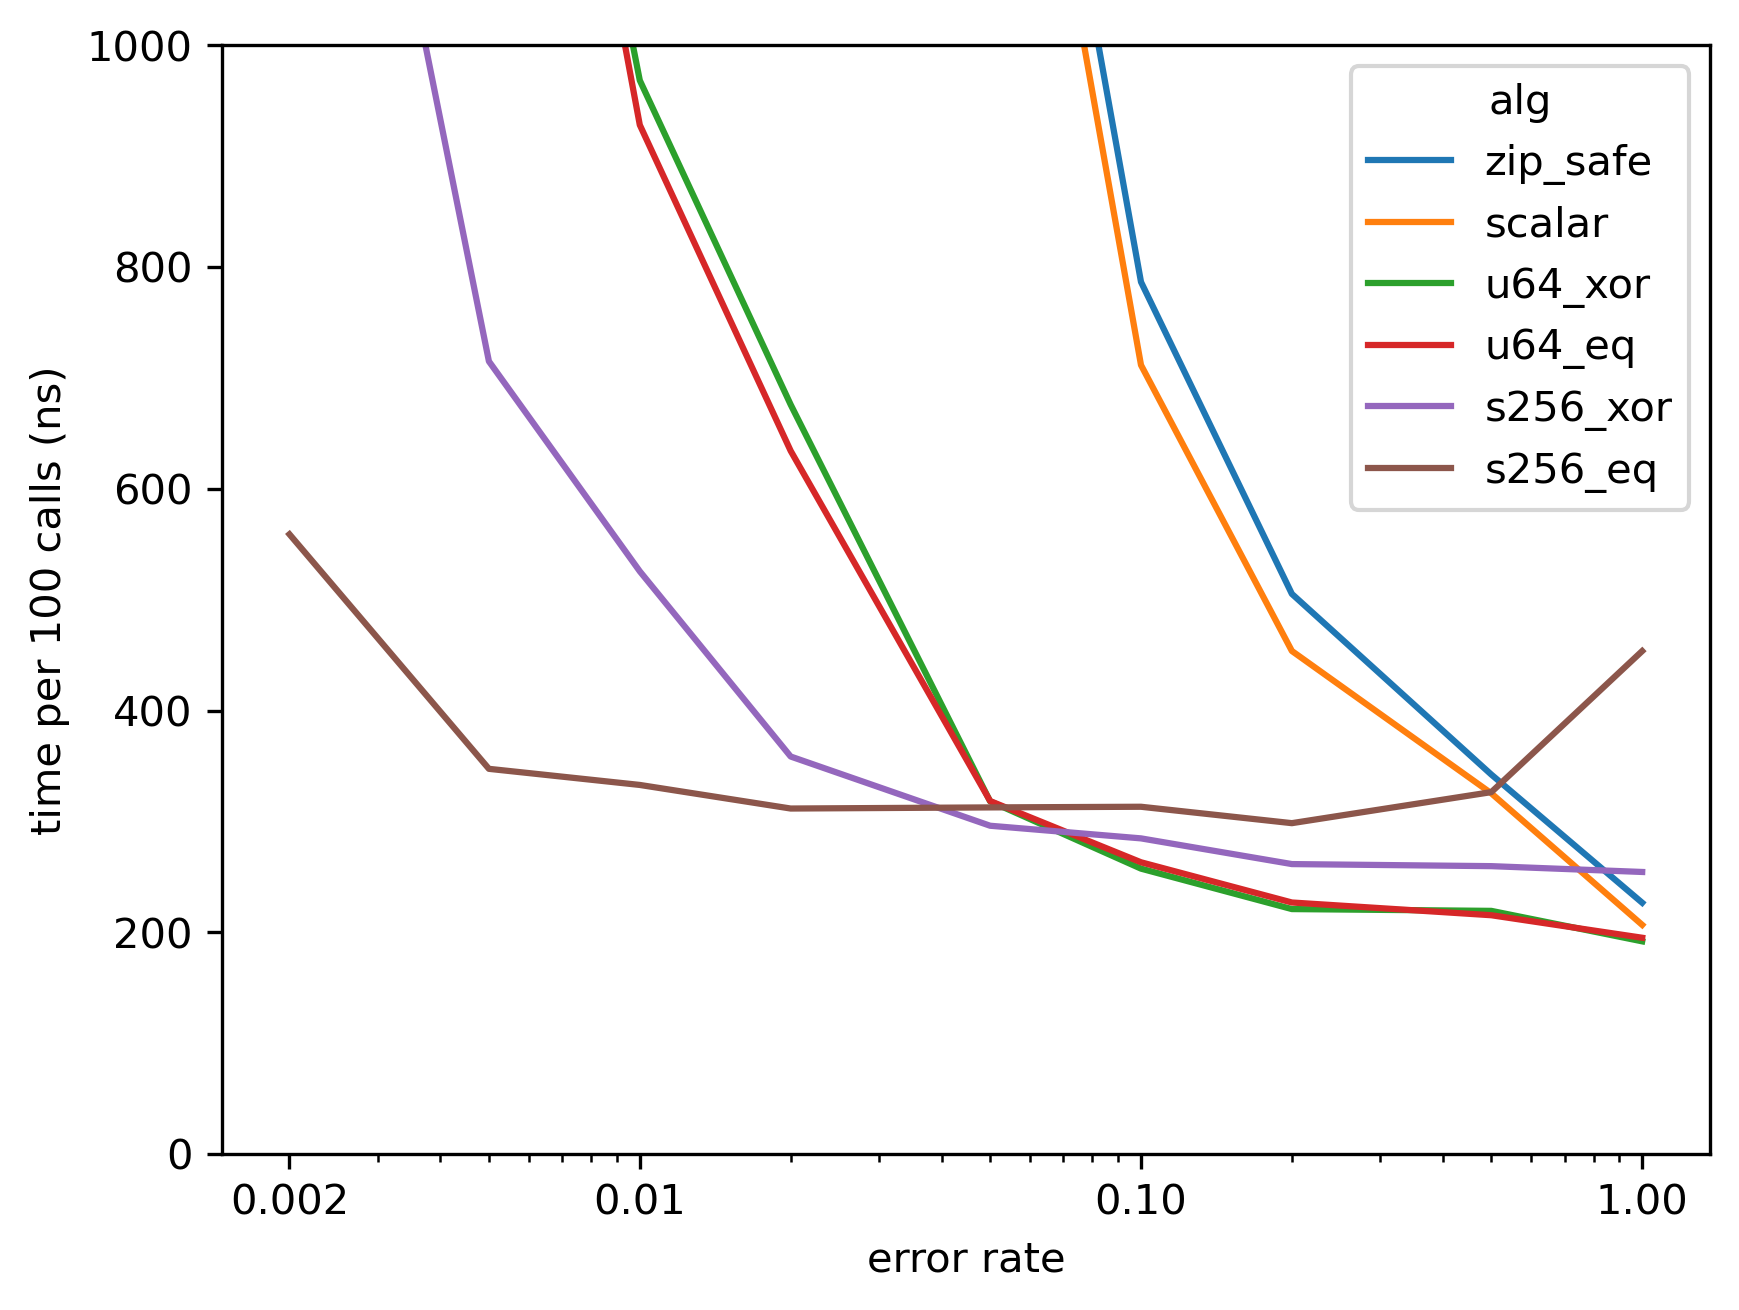
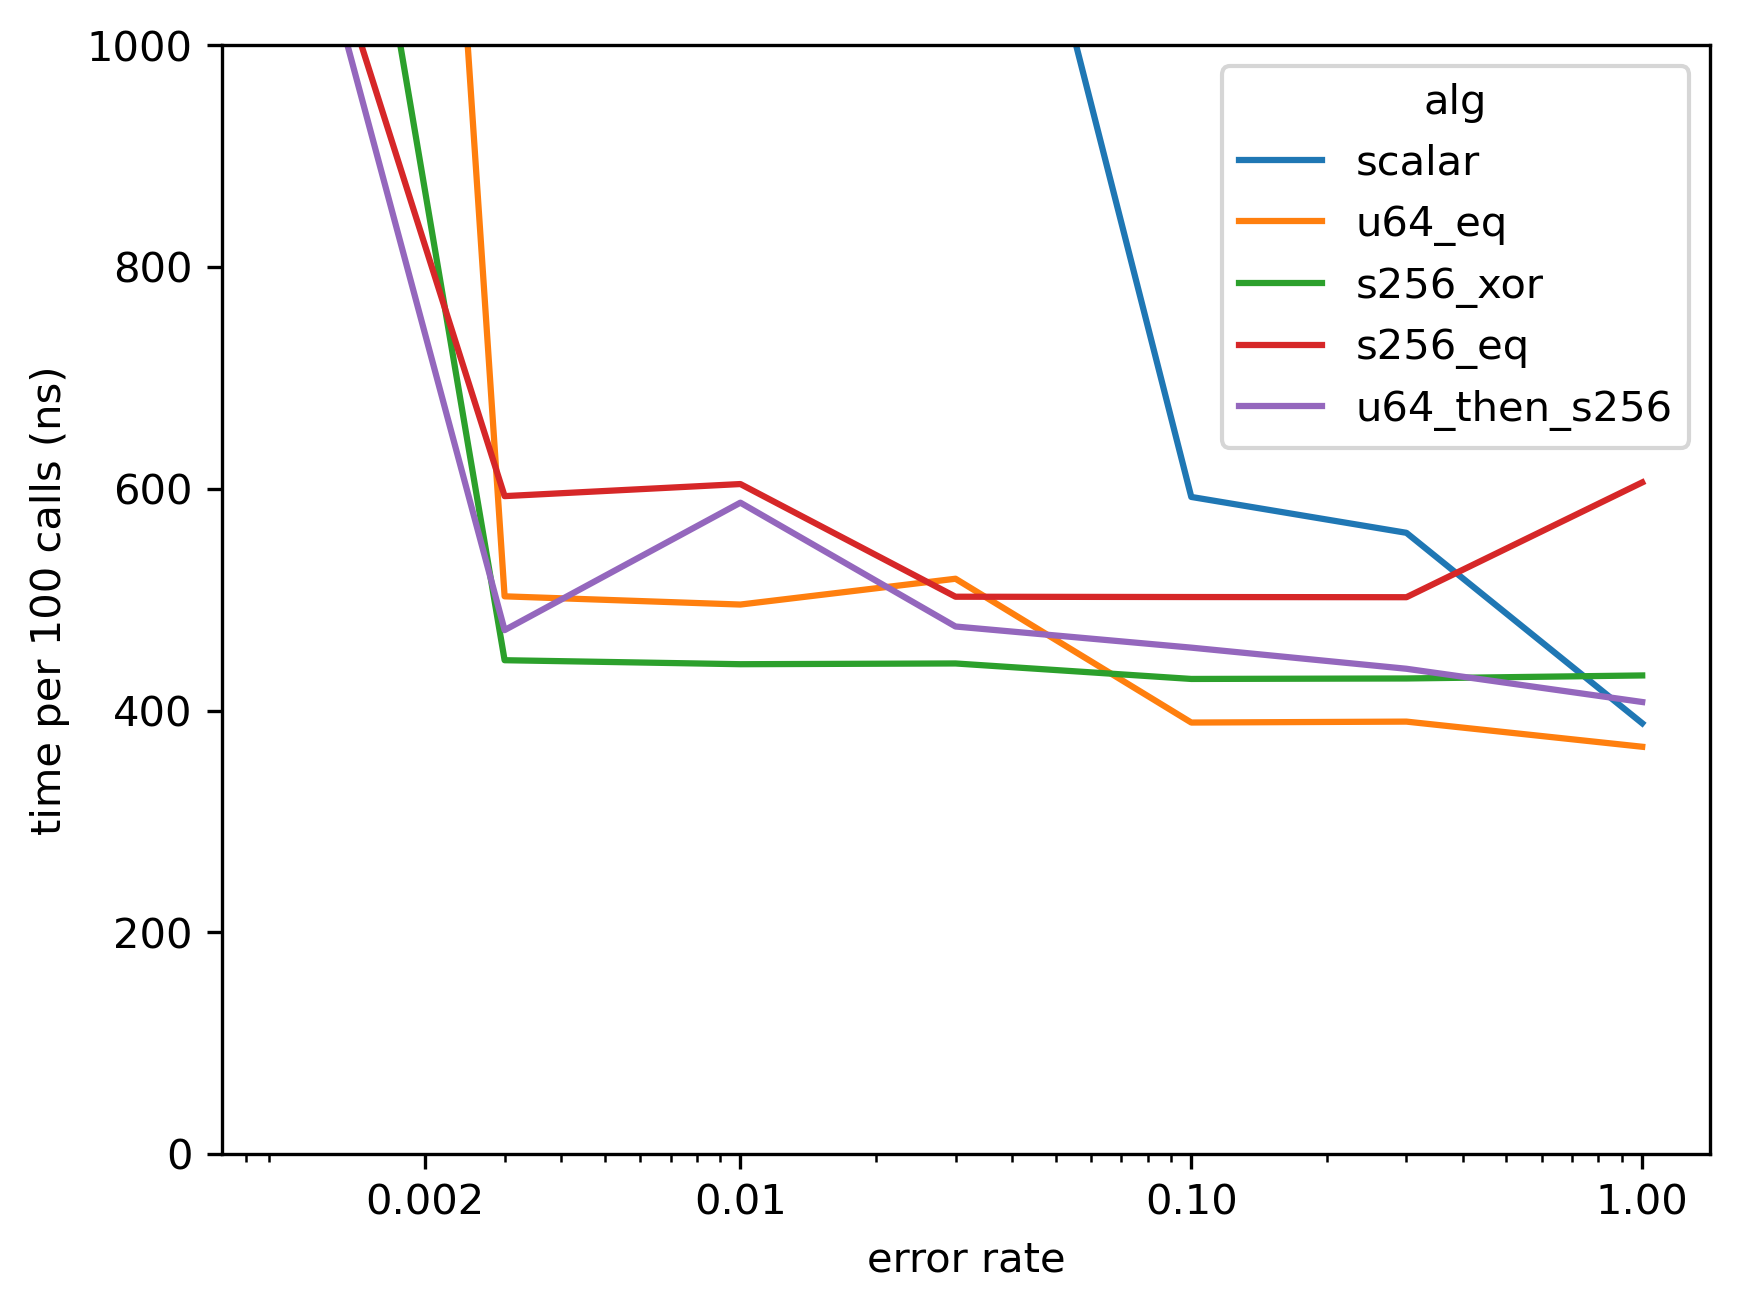
Add more results

diff --git a/src/lib.rs b/src/lib.rs
@@ -2,7 +2,7 @@
 use std::{
     cmp::min,
     num::{NonZeroU16, NonZeroU32, NonZeroU8},
-    simd::{LaneCount, Simd, SimdPartialEq, SupportedLaneCount, ToBitMask},
+    simd::{u64x8, LaneCount, Simd, SimdPartialEq, SupportedLaneCount, ToBitMask},
 };
 
 use pa_types::{Seq, I};
@@ -111,6 +111,17 @@ pub fn u64_unsafe(a: Seq, b: Seq) -> I {
             return cnt as I + (cmp.leading_zeros() / u8::BITS) as I;
         };
     }
+}
+
+pub fn u64_unsafe_once(a: Seq, b: Seq) -> I {
+    let a = index_u64(a, 0);
+    let b = index_u64(b, 0);
+    let cmp = a ^ b;
+    if cmp == 0 {
+        return 8;
+    } else {
+        return (cmp.leading_zeros() / u8::BITS) as I;
+    };
 }
 
 pub fn u64_unsafe_eq(a: Seq, b: Seq) -> I {
@@ -305,6 +316,14 @@ pub fn s256_unsafe_nz(a: Seq, b: Seq) -> I {
     }
 }
 
+pub fn u64_then_s256(a: Seq, b: Seq) -> I {
+    let cnt = u64_unsafe_once(a, b);
+    if cnt < 8 {
+        return cnt;
+    }
+    return 8 + s256_unsafe_eq(&a[8..], &b[8..]);
+}
+
 pub mod parallel {
     pub type ExtendFnParallel<const K: usize> = fn(Seq, Seq, Simd<I, K>, Simd<I, K>) -> Simd<I, K>;
     fn index<T: std::simd::SimdElement, const K: usize>(a: Seq, is: Simd<I, K>) -> Simd<T, K>
@@ -321,7 +340,8 @@ pub mod parallel {
     use super::*;
     use std::array;
 
-    pub fn u32_unsafe_once_ss(a: Seq, b: Seq, is: Simd<I, 8>, js: Simd<I, 8>) -> Simd<I, 8> {
+    #[inline(never)]
+    pub fn u32_unsafe_once(a: Seq, b: Seq, is: Simd<I, 8>, js: Simd<I, 8>) -> Simd<I, 8> {
         let a = index::<u32, 8>(a, is);
         let b = index::<u32, 8>(b, js);
         let cmp = a ^ b;
@@ -330,9 +350,20 @@ pub mod parallel {
         }))
     }
 
-    pub fn u16_unsafe_once_ss(a: Seq, b: Seq, is: Simd<I, 16>, js: Simd<I, 16>) -> Simd<I, 16> {
+    #[inline(never)]
+    pub fn u16_unsafe_once(a: Seq, b: Seq, is: Simd<I, 16>, js: Simd<I, 16>) -> Simd<I, 16> {
         let a = index::<u16, 16>(a, is);
         let b = index::<u16, 16>(b, js);
+        let cmp = a ^ b;
+        Simd::from(array::from_fn(|k| {
+            cmp[k].leading_zeros() as I / u8::BITS as I
+        }))
+    }
+
+    #[inline(never)]
+    pub fn u8_unsafe_once(a: Seq, b: Seq, is: Simd<I, 32>, js: Simd<I, 32>) -> Simd<I, 32> {
+        let a = index::<u8, 32>(a, is);
+        let b = index::<u8, 32>(b, js);
         let cmp = a ^ b;
         Simd::from(array::from_fn(|k| {
             cmp[k].leading_zeros() as I / u8::BITS as I

diff --git a/benches/bench.rs b/benches/bench.rs
@@ -13,7 +13,7 @@ use pa_types::{Seq, I};
 
 fn bench(c: &mut Criterion) {
     let len = 3000;
-    for e in [1.0, 0.30, 0.10, 0.03, 0.01] {
+    for e in [1.0, 0.30, 0.10, 0.03, 0.01, 0.003, 0.001] {
         let c = &mut c.benchmark_group(format!("{e:.3}", e = e));
 
         let setup = |i| {
@@ -66,8 +66,9 @@ fn bench(c: &mut Criterion) {
         // test2("s128_nz", s128_unsafe_nz);
         test("s256_xor", s256_unsafe);
         test("s256_eq", s256_unsafe_eq);
+        test("u64_then_s256", u64_then_s256);
         // test2("s256_unsafe_nz", s256_unsafe_nz);
-        test("edk", |a, b| editdistancek::mismatch(a, b) as I);
+        // test("edk", |a, b| editdistancek::mismatch(a, b) as I);
 
         fn testp<const K: usize>(
             c: &mut BenchmarkGroup<'_, WallTime>,
@@ -97,23 +98,11 @@ fn bench(c: &mut Criterion) {
             });
         }
 
-        testp(
-            c,
-            a,
-            b,
-            &indices,
-            "u32_once_ss",
-            parallel::u32_unsafe_once_ss,
-        );
+        testp(c, a, b, &indices, "u32_once", parallel::u32_unsafe_once);
 
-        testp(
-            c,
-            a,
-            b,
-            &indices,
-            "u16_once_ss",
-            parallel::u16_unsafe_once_ss,
-        );
+        testp(c, a, b, &indices, "u16_once", parallel::u16_unsafe_once);
+
+        testp(c, a, b, &indices, "u8_once", parallel::u8_unsafe_once);
     }
 }
 
